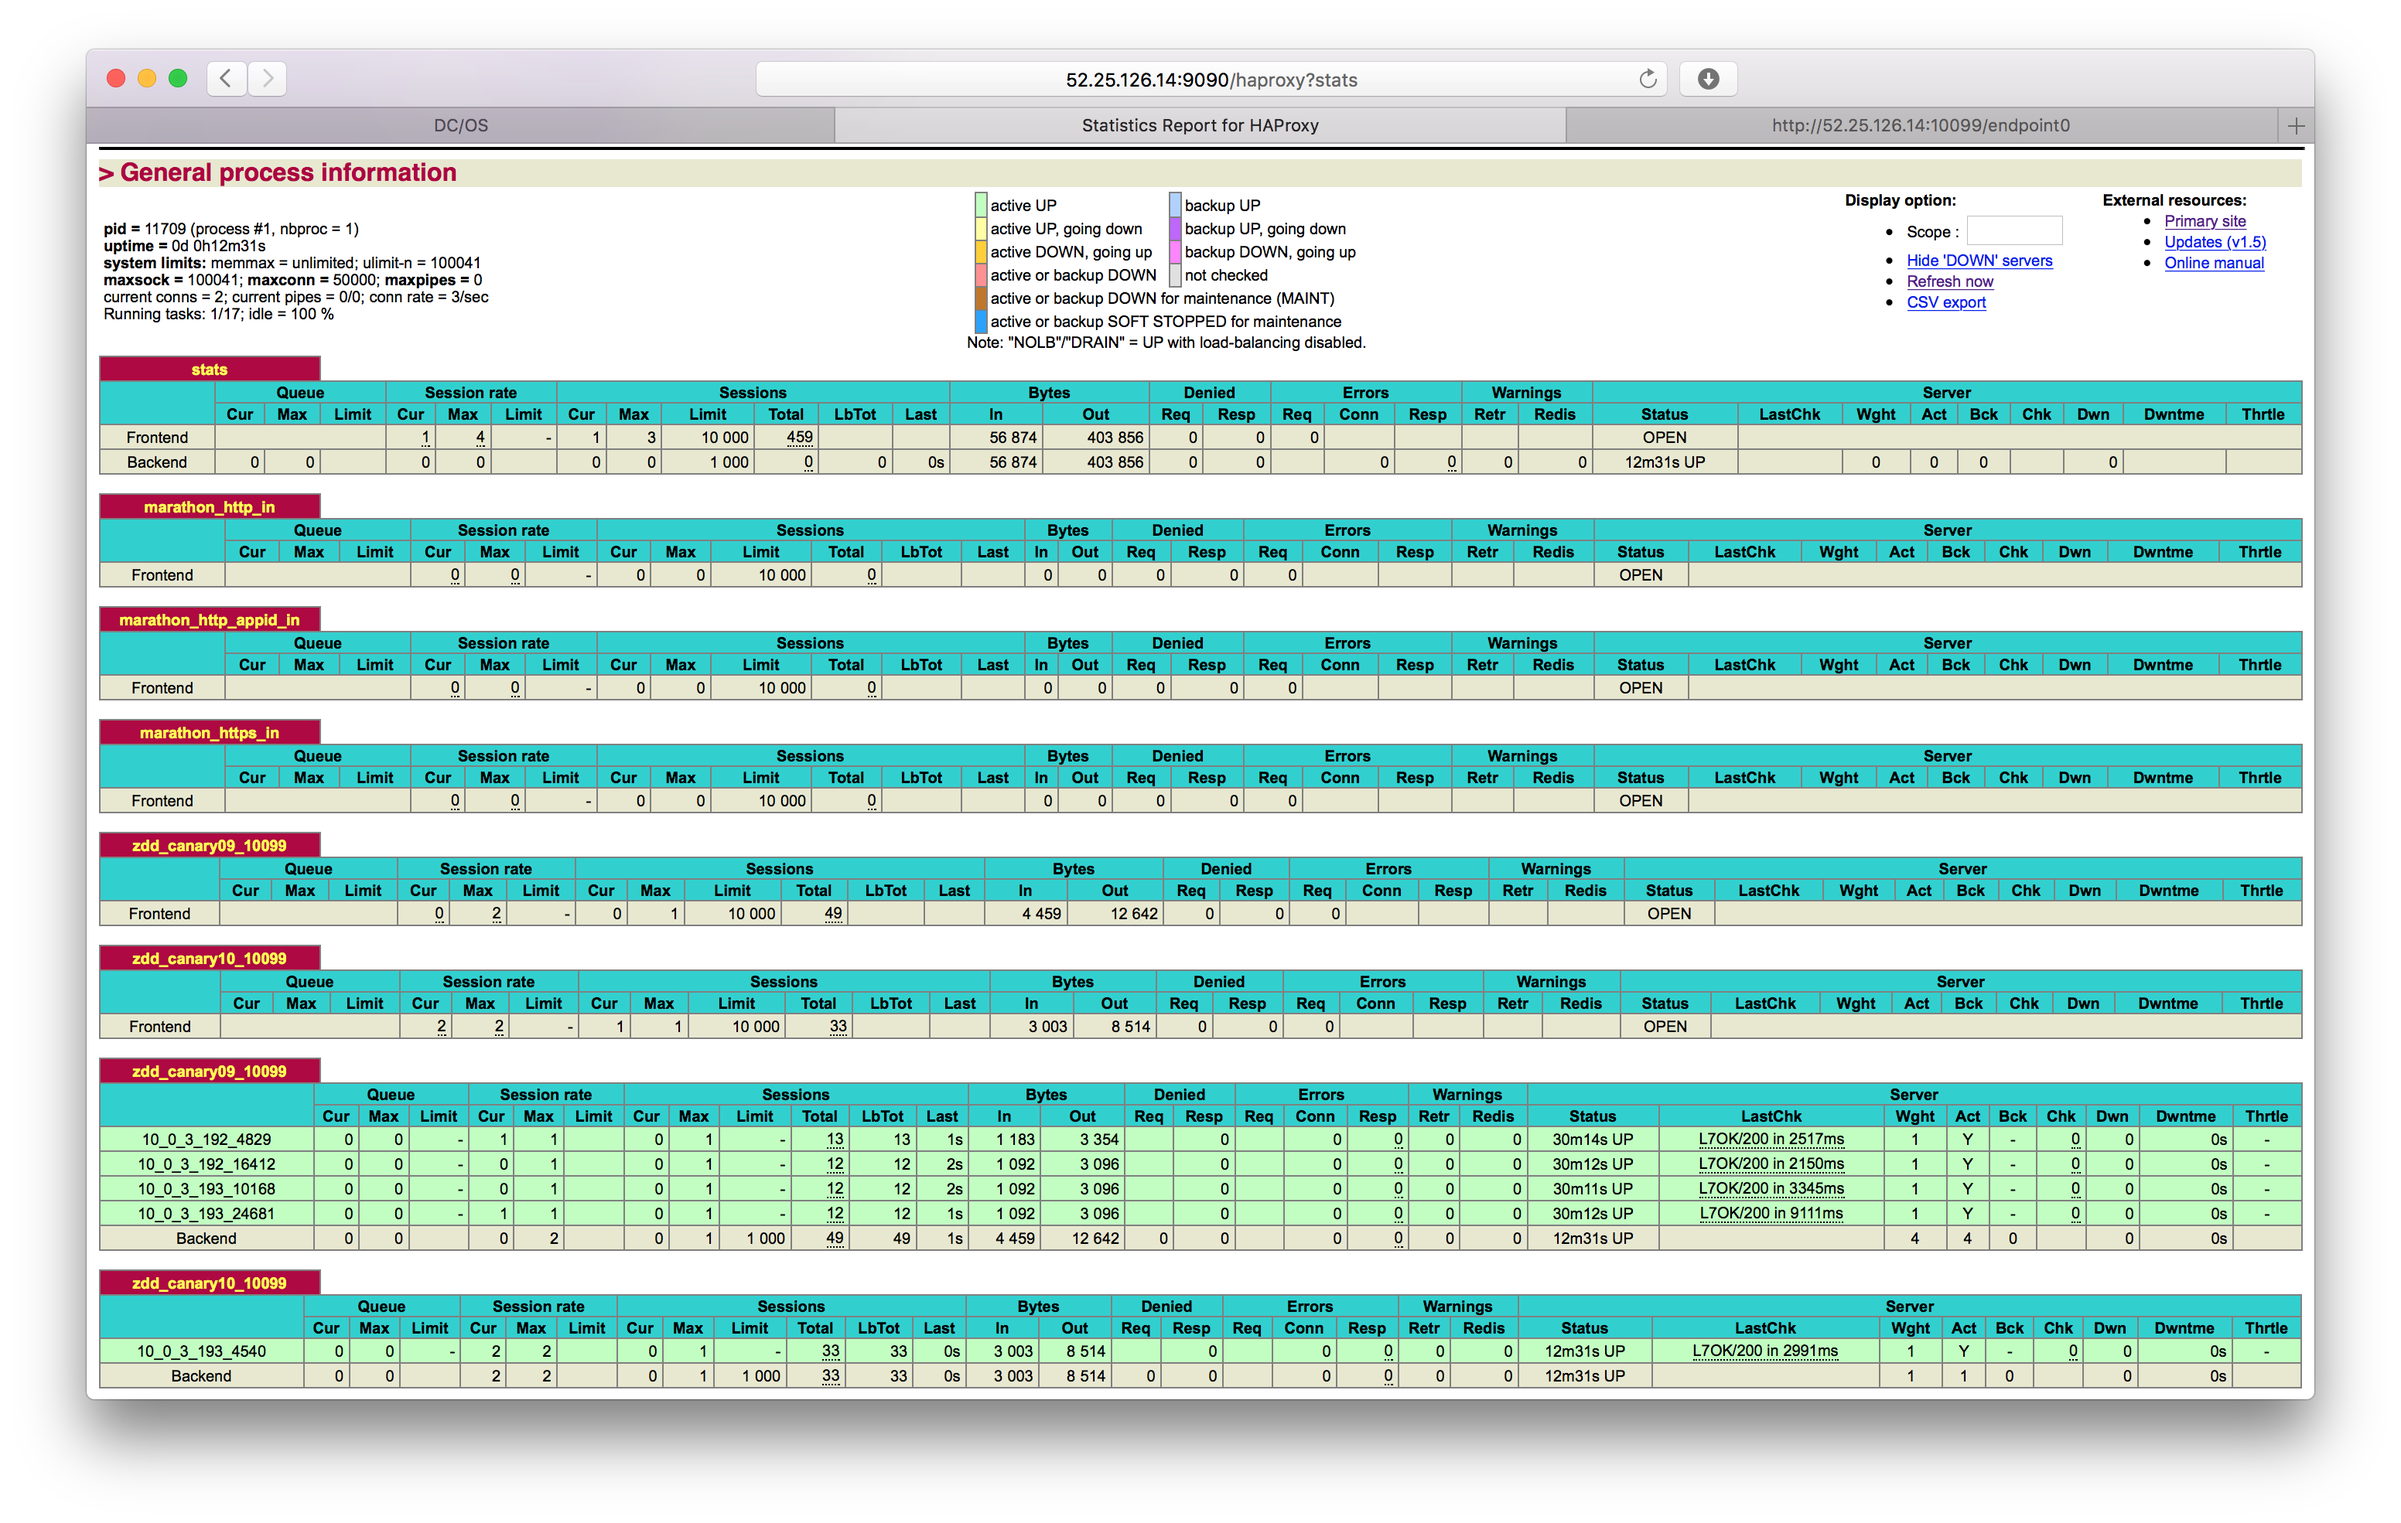
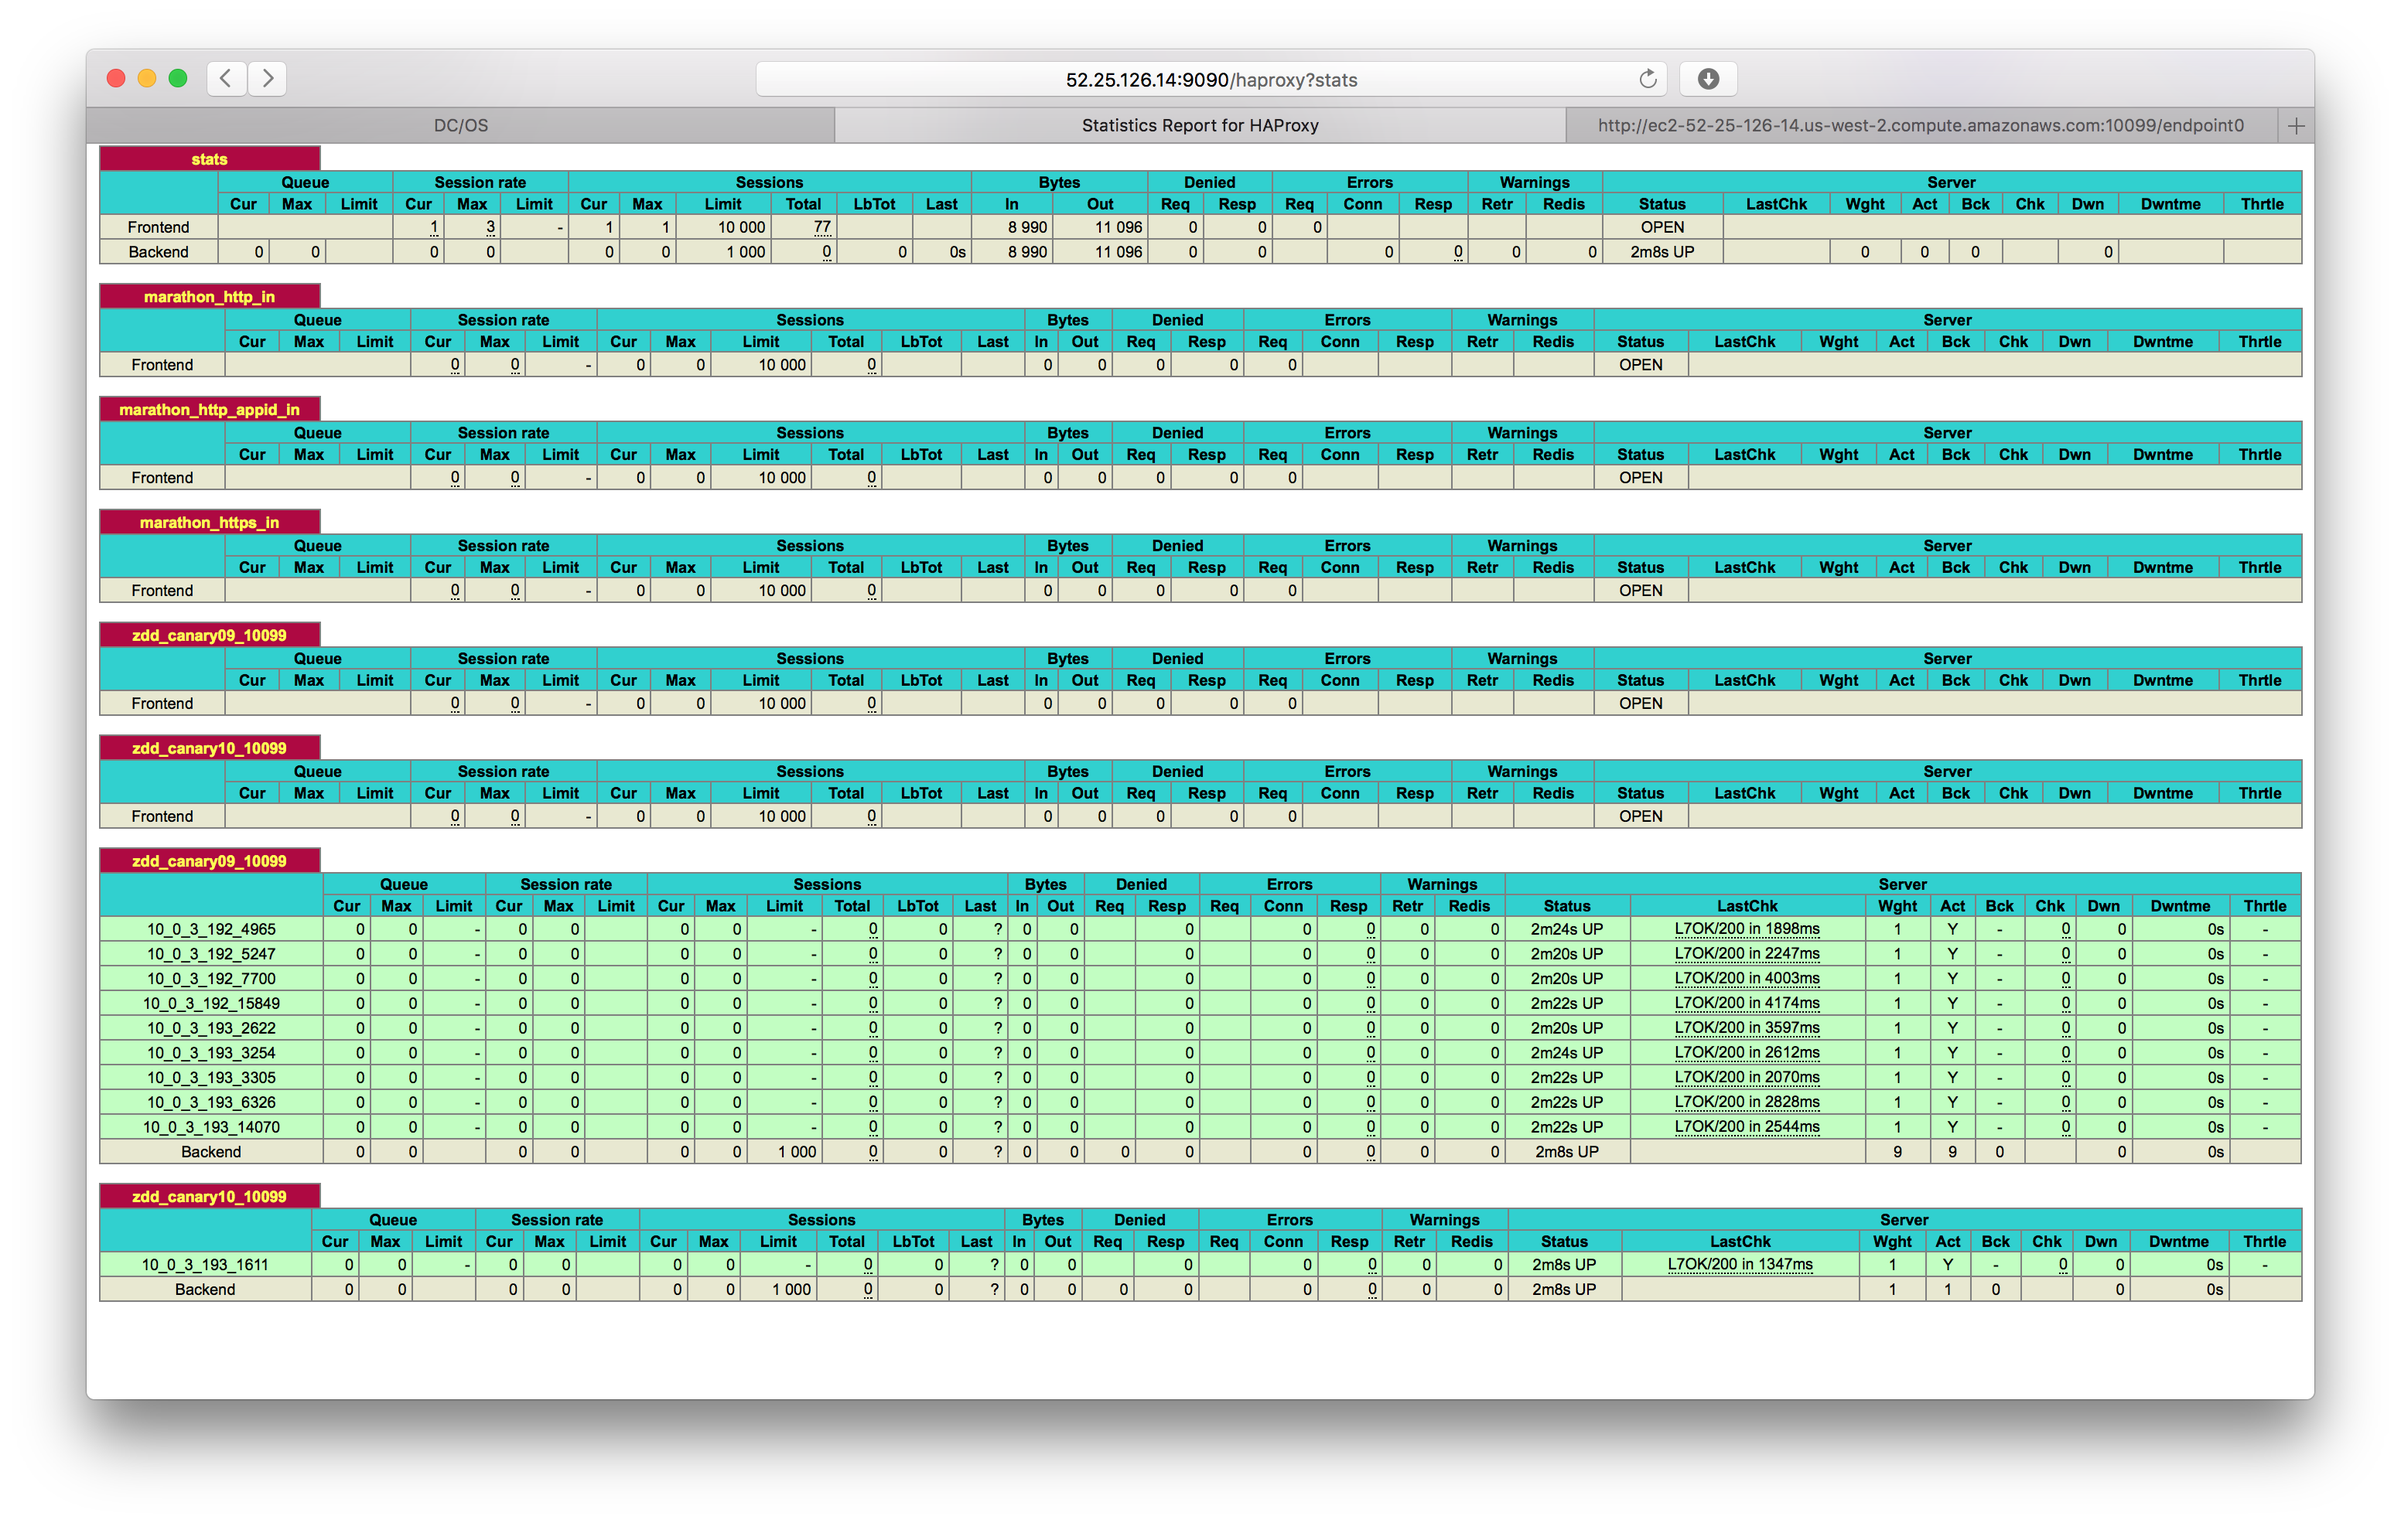
updates canary deployment again

diff --git a/README.md b/README.md
@@ -29,6 +29,7 @@ Finally, as a preparation you should have a (quick) look at the following docs:
 - [health checks](https://mesosphere.github.io/marathon/docs/health-checks.html)
 - [deployments](https://mesosphere.github.io/marathon/docs/deployments.html)
 - [readiness checks](https://mesosphere.github.io/marathon/docs/readiness-checks.html) (OPTIONAL)
+- [load balancing with HAProxy](https://serversforhackers.com/load-balancing-with-haproxy)
 - [Marathon-LB ZDD](https://github.com/mesosphere/marathon-lb#zero-downtime-deployments)
 
 ## Default behaviour
@@ -393,69 +394,73 @@ To explore the behaviour of exposing `simpleservice` via MLB we're using [v09.js
       "HAPROXY_GROUP": "external"
       "HAPROXY_0_PORT": "10099",
       "HAPROXY_0_VHOST": "http://ec2-52-25-126-14.us-west-2.compute.amazonaws.com",
-      "HAPROXY_0_BACKEND_WEIGHT": "75"
+      "HAPROXY_0_BACKEND_WEIGHT": "3"
     }
 
-The semantics of the added labels from above, defining [service-level HAProxy configurations](https://github.com/mesosphere/marathon-lb/blob/master/Longhelp.md#templates), is as follows:
+The semantics of the added labels from above is as follows:
 
 - `HAPROXY_GROUP` is set to expose it on the (edge-routing) MLB we installed in the previous step.
 - `HAPROXY_0_PORT` defines`10099` as the external, public port we want `simpleservice` to be available.
 - `HAPROXY_0_VHOST` is the virtual host to be used for the edge routing, in my case the FQDN of the public agent, see also the [MLB docs](https://dcos.io/docs/1.8/usage/service-discovery/marathon-lb/usage/).
 - `HAPROXY_0_BACKEND_WEIGHT` is set to a value corresponding to 3/4 of the overall traffic, see also a respective [serverfault question](http://serverfault.com/questions/232168/basic-weight-questions-with-haproxy).
 
-Let's check HAProxy now:
+Note that the labels you specify here actually define [service-level HAProxy configurations](https://github.com/mesosphere/marathon-lb/blob/master/Longhelp.md#templates) under the hood. 
+
+Let's check what's going on in HAProxy now:
 
 ![MLB HAProxy with simpleservice v0.9 running](img/haproxy-v09.png)
 
-In above HAProxy screen shot we can see the one frontend for our service, serving on `52.25.126.14:10099` (with `52.25.126.14` being the IP of my public agent) and the four backends `10_0_3_192_4829`, `10_0_3_192_16412`, `10_0_3_193_10168`, and `10_0_3_193_24681` which correspond exactly to the four instances DC/OS has launched as requested:
-
-    $ dcos marathon task list /zdd/canary09
-    APP            HEALTHY          STARTED              HOST     ID
-    /zdd/canary09    True   2016-10-14T10:13:48.389Z  10.0.3.193  zdd_canary09.e53ab1b7-91f6-11e6-aae4-3a4b79075094
-    /zdd/canary09    True   2016-10-14T10:13:48.409Z  10.0.3.193  zdd_canary09.e53b26e9-91f6-11e6-aae4-3a4b79075094
-    /zdd/canary09    True   2016-10-14T10:13:48.414Z  10.0.3.192  zdd_canary09.e53a1576-91f6-11e6-aae4-3a4b79075094
-    /zdd/canary09    True   2016-10-14T10:13:48.445Z  10.0.3.192  zdd_canary09.e53affd8-91f6-11e6-aae4-3a4b79075094
-
-Or, to verify the ports we can use Mesos-DNS from within the cluster:
+In above HAProxy screen shot we can see the one frontend for our service, serving on `52.25.126.14:10099` (with `52.25.126.14` being the IP of my public agent) and 9 backends, corresponding to the 9 instances DC/OS has launched as requested. To verify the ports we can use Mesos-DNS from within the cluster:
 
     core@ip-10-0-6-211 ~ $ dig _canary09-zdd._tcp.marathon.mesos SRV
+    ;; Truncated, retrying in TCP mode.
     
     ; <<>> DiG 9.10.2-P4 <<>> _canary09-zdd._tcp.marathon.mesos SRV
     ;; global options: +cmd
     ;; Got answer:
-    ;; ->>HEADER<<- opcode: QUERY, status: NOERROR, id: 24213
-    ;; flags: qr aa rd ra; QUERY: 1, ANSWER: 4, AUTHORITY: 0, ADDITIONAL: 4
+    ;; ->>HEADER<<- opcode: QUERY, status: NOERROR, id: 15083
+    ;; flags: qr aa rd ra; QUERY: 1, ANSWER: 9, AUTHORITY: 0, ADDITIONAL: 9
     
     ;; QUESTION SECTION:
     ;_canary09-zdd._tcp.marathon.mesos. IN	SRV
     
     ;; ANSWER SECTION:
-    _canary09-zdd._tcp.marathon.mesos. 60 IN SRV	0 0 10168 canary09-zdd-o1yxt-s1.marathon.mesos.
-    _canary09-zdd._tcp.marathon.mesos. 60 IN SRV	0 0 16412 canary09-zdd-wkhxe-s2.marathon.mesos.
-    _canary09-zdd._tcp.marathon.mesos. 60 IN SRV	0 0 4829 canary09-zdd-oigsu-s2.marathon.mesos.
-    _canary09-zdd._tcp.marathon.mesos. 60 IN SRV	0 0 24681 canary09-zdd-ewga5-s1.marathon.mesos.
+    _canary09-zdd._tcp.marathon.mesos. 60 IN SRV	0 0 7700 canary09-zdd-6fdxh-s2.marathon.mesos.
+    _canary09-zdd._tcp.marathon.mesos. 60 IN SRV	0 0 3305 canary09-zdd-a84e8-s1.marathon.mesos.
+    _canary09-zdd._tcp.marathon.mesos. 60 IN SRV	0 0 3254 canary09-zdd-5y883-s1.marathon.mesos.
+    _canary09-zdd._tcp.marathon.mesos. 60 IN SRV	0 0 14070 canary09-zdd-7k6pj-s1.marathon.mesos.
+    _canary09-zdd._tcp.marathon.mesos. 60 IN SRV	0 0 4965 canary09-zdd-1or1r-s2.marathon.mesos.
+    _canary09-zdd._tcp.marathon.mesos. 60 IN SRV	0 0 6326 canary09-zdd-3oyra-s1.marathon.mesos.
+    _canary09-zdd._tcp.marathon.mesos. 60 IN SRV	0 0 2622 canary09-zdd-wrqtj-s1.marathon.mesos.
+    _canary09-zdd._tcp.marathon.mesos. 60 IN SRV	0 0 5247 canary09-zdd-sf5tt-s2.marathon.mesos.
+    _canary09-zdd._tcp.marathon.mesos. 60 IN SRV	0 0 15849 canary09-zdd-sqzbn-s2.marathon.mesos.
     
     ;; ADDITIONAL SECTION:
-    canary09-zdd-oigsu-s2.marathon.mesos. 60 IN A	10.0.3.192
-    canary09-zdd-wkhxe-s2.marathon.mesos. 60 IN A	10.0.3.192
-    canary09-zdd-ewga5-s1.marathon.mesos. 60 IN A	10.0.3.193
-    canary09-zdd-o1yxt-s1.marathon.mesos. 60 IN A	10.0.3.193
+    canary09-zdd-1or1r-s2.marathon.mesos. 60 IN A	10.0.3.192
+    canary09-zdd-a84e8-s1.marathon.mesos. 60 IN A	10.0.3.193
+    canary09-zdd-wrqtj-s1.marathon.mesos. 60 IN A	10.0.3.193
+    canary09-zdd-sf5tt-s2.marathon.mesos. 60 IN A	10.0.3.192
+    canary09-zdd-7k6pj-s1.marathon.mesos. 60 IN A	10.0.3.193
+    canary09-zdd-6fdxh-s2.marathon.mesos. 60 IN A	10.0.3.192
+    canary09-zdd-sqzbn-s2.marathon.mesos. 60 IN A	10.0.3.192
+    canary09-zdd-5y883-s1.marathon.mesos. 60 IN A	10.0.3.193
+    canary09-zdd-3oyra-s1.marathon.mesos. 60 IN A	10.0.3.193
     
-    ;; Query time: 1 msec
+    ;; Query time: 2 msec
     ;; SERVER: 198.51.100.1#53(198.51.100.1)
-    ;; WHEN: Fri Oct 14 10:25:10 UTC 2016
-    ;; MSG SIZE  rcvd: 283
+    ;; WHEN: Fri Oct 14 21:13:25 UTC 2016
+    ;; MSG SIZE  rcvd: 573
 
 So we're now in the position that we can access version `0.9` of `simpleservice` from outside the cluster:
 
     $ curl http://52.25.126.14:10099/endpoint0
     {"host": "52.25.126.14:10099", "version": "0.9", "result": "all is well"}
 
-Now we deploy version `1.0` of the service, using [v10.json](canary/v10.json). The resulting HAProxy view is as follows
+Next, we deploy version `1.0` of `simpleservice`, using [v10.json](canary/v10.json). The resulting HAProxy view is as follows:
 
 ![MLB HAProxy with simpleservice v0.9 and v1.0 running](img/haproxy-v09-v10.png)
 
-Notice above that we now have two frontends `zdd_canary09_10099` and `zdd_canary10_10099`, both serving on the same port, `10099` as well as five backends (4 serving version `0.9` and 1 serving version `1.0`) as we would expect.
+Notice above that we now have two frontends `zdd_canary09_10099` and `zdd_canary10_10099`, both serving on the same port, `10099` as well as two backends with 9 instances serving version `0.9` and 1 serving version `1.0`, as we would expect.
 
 We can now check which version clients of `simpleservice` see, using the [canary-check.sh](canary/canary-check.sh) test script:
 
@@ -474,8 +479,6 @@ We can now check which version clients of `simpleservice` see, using the [canary
     Out of 10 clients of simpleservice 5 saw version 0.9 and 5 saw version 1.0
 
 Tip: If you want to simulate more clients here, pass in the number of clients as the second argument, as in `./canary-check.sh http://52.25.126.14 100` to simulate 100 clients, for example.
-
-
 
 
 ## Blue-Green deployment
